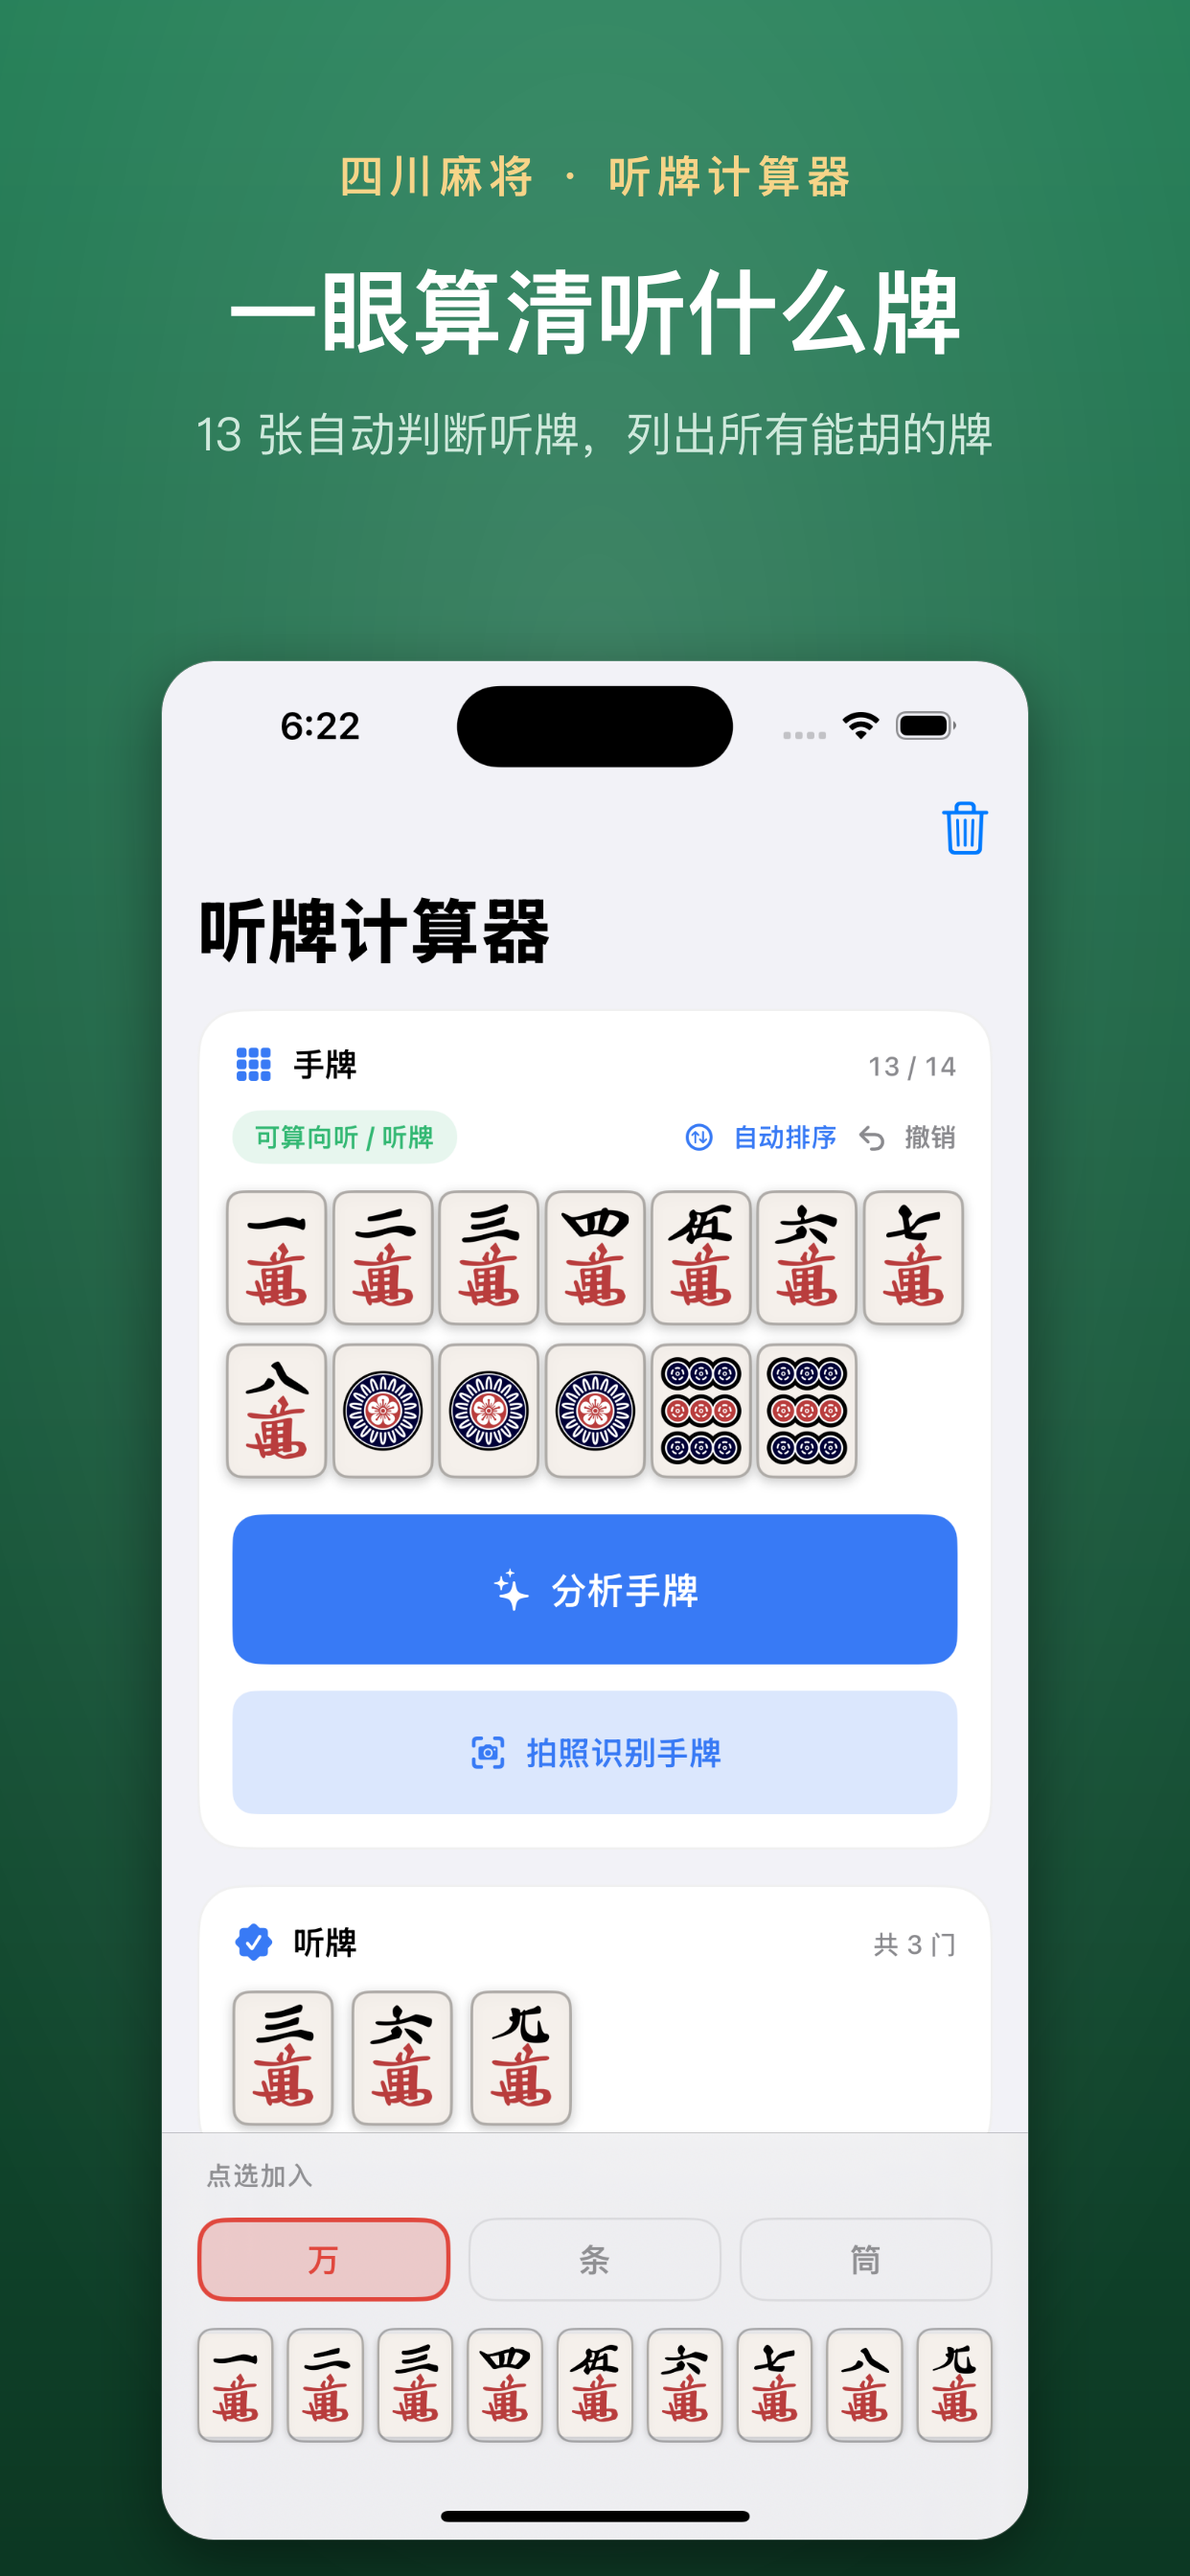
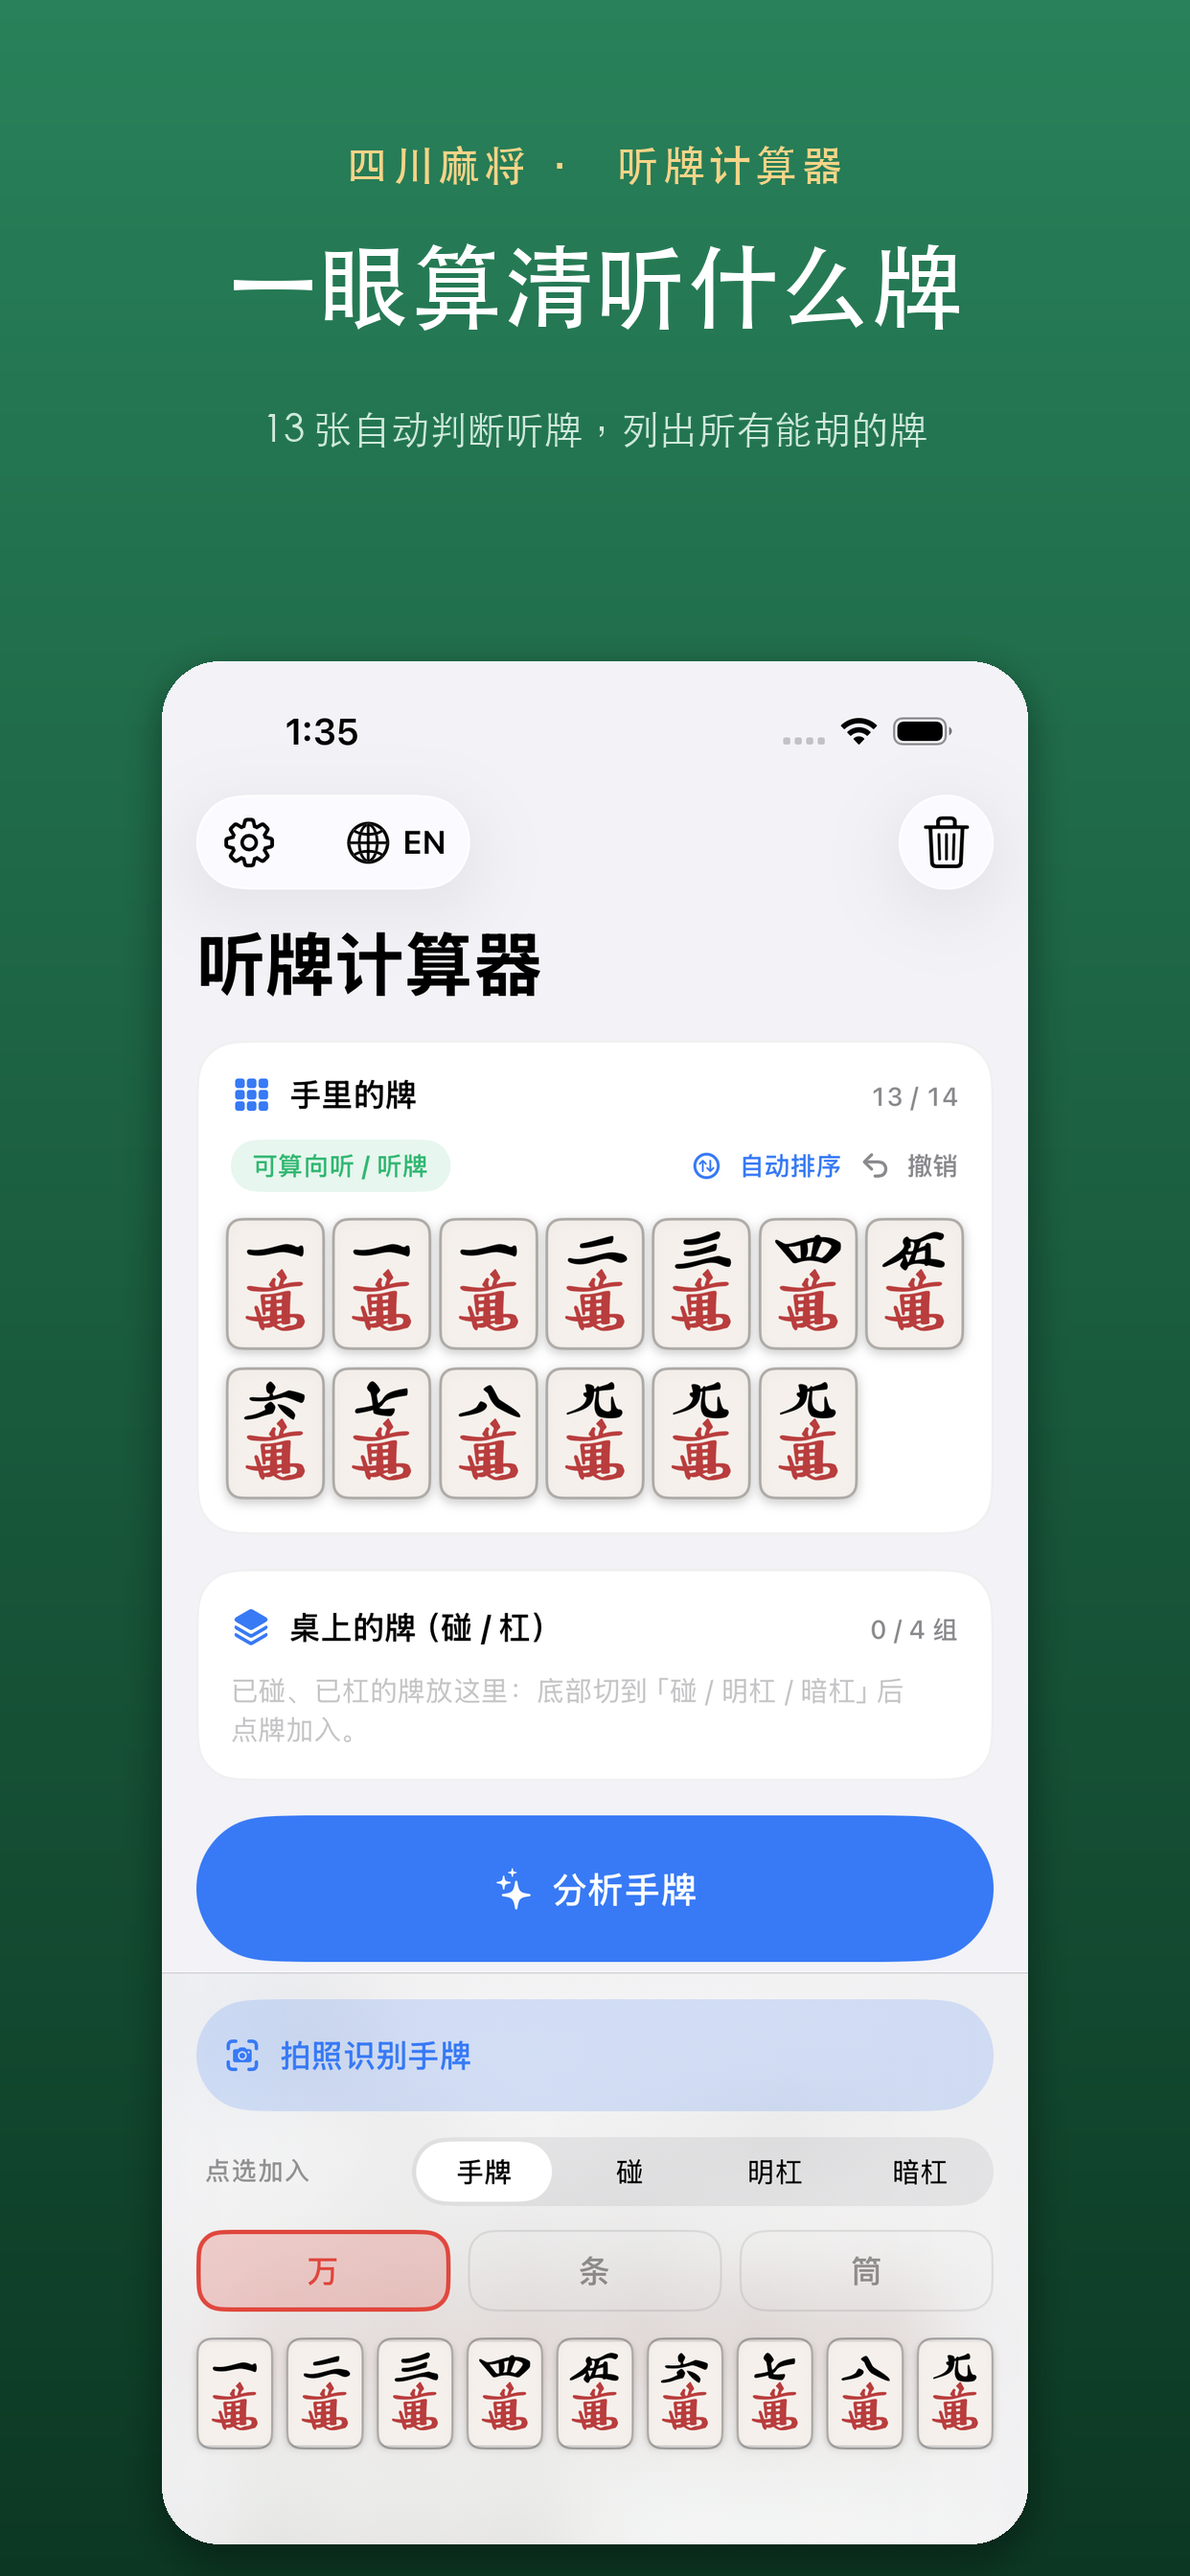
Refresh App Store screenshots for the current UI, add 算番 promo image
The 4 existing promo screenshots were captured before melds, rule
settings, and fan/payout scoring existed — the app looked nothing
like them anymore. Recaptured all 4 from the current build and added
a 5th dedicated to the fan-scoring feature (番型明细 sheet showing
清豪七 with 点炮/自摸 payouts).

- ContentView: add a DEBUG-only DEMO_NOSCROLL env hook (alongside the
  existing DEMO_HAND/DEMO_SHEET/etc.) so promo screenshots can be
  captured at the top of the page instead of mid-auto-scroll.
- screenshots/compose_promo.py: new reusable compositor (gradient
  background + caption/headline/subtitle + rounded corners + shadow)
  that regenerates 6.5-inch/*.png from raw/*.png, replacing the
  previously undocumented ad-hoc process.
- Updated app store README/Listing to reflect the 5-screenshot set
  and the new regeneration script.

diff --git a/majiang calculator/ContentView.swift b/majiang calculator/ContentView.swift
@@ -350,6 +350,9 @@ struct ContentView: View {
 
     /// 分析结束后把结果区滚进视野（等布局稳定后再滚）
     private func scrollToResult(_ proxy: ScrollViewProxy) {
+        #if DEBUG
+        if ProcessInfo.processInfo.environment["DEMO_NOSCROLL"] == "1" { return }
+        #endif
         DispatchQueue.main.asyncAfter(deadline: .now() + 0.25) {
             withAnimation(.easeInOut(duration: 0.35)) {
                 proxy.scrollTo("result", anchor: .top)

diff --git a/app store/screenshots/compose_promo.py b/app store/screenshots/compose_promo.py
@@ -1,0 +1,174 @@
+#!/usr/bin/env python3
+"""
+Regenerate the App Store 6.5" promo screenshots from raw simulator captures.
+
+Usage: capture fresh raw screenshots into raw/<name>.png (see repo memory
+`ai-tile-recognition`/README for the SIMCTL_CHILD_DEMO_* env hooks that
+reproduce each demo state), then from this directory run:
+
+    python3 compose_promo.py
+
+Composites each raw/<name>.png onto a gradient background with caption +
+headline + subtitle text, rounded corners, and a soft drop shadow, writing
+6.5-inch/<name>.png. Style (colors, type sizes, phone placement) was reverse
+-measured from the original hand-made screenshots, so re-running this after
+editing SCREENS below should stay visually consistent.
+"""
+import os
+from PIL import Image, ImageDraw, ImageFont, ImageFilter
+
+HERE = os.path.dirname(os.path.abspath(__file__))
+RAW_DIR = os.path.join(HERE, "raw")
+OUT_DIR = os.path.join(HERE, "6.5-inch")
+
+CANVAS_W, CANVAS_H = 1242, 2688
+TOP_COLOR = (40, 129, 90)
+BOTTOM_COLOR = (12, 56, 35)
+GOLD = (246, 212, 136)
+WHITE = (255, 255, 255)
+MINT = (207, 233, 220)
+
+FONT_MED = "/System/Library/Fonts/STHeiti Medium.ttc"
+FONT_LIGHT = "/System/Library/Fonts/STHeiti Light.ttc"
+
+PHONE_W = 904
+PHONE_TOP = 690
+PHONE_LEFT = (CANVAS_W - PHONE_W) // 2
+CORNER_RADIUS = 60
+
+
+def make_gradient():
+    im = Image.new("RGB", (CANVAS_W, CANVAS_H))
+    px = im.load()
+    for y in range(CANVAS_H):
+        t = y / (CANVAS_H - 1)
+        r = round(TOP_COLOR[0] + (BOTTOM_COLOR[0] - TOP_COLOR[0]) * t)
+        g = round(TOP_COLOR[1] + (BOTTOM_COLOR[1] - TOP_COLOR[1]) * t)
+        b = round(TOP_COLOR[2] + (BOTTOM_COLOR[2] - TOP_COLOR[2]) * t)
+        for x in range(CANVAS_W):
+            px[x, y] = (r, g, b)
+    return im
+
+
+def draw_tracked_text(draw, y, text, font, fill, tracking, center_x):
+    widths = []
+    for ch in text:
+        bbox = font.getbbox(ch)
+        widths.append(bbox[2] - bbox[0] if ch != " " else font.getbbox("一")[2] * 0.4)
+    total = sum(widths) + tracking * (len(text) - 1)
+    x = center_x - total / 2
+    for ch, w in zip(text, widths):
+        draw.text((x, y), ch, font=font, fill=fill)
+        x += w + tracking
+
+
+def fit_headline_font(text, max_width, start_size=96, min_size=56):
+    size = start_size
+    while size > min_size:
+        f = ImageFont.truetype(FONT_MED, size)
+        bbox = f.getbbox(text)
+        if (bbox[2] - bbox[0]) <= max_width:
+            return f
+        size -= 2
+    return ImageFont.truetype(FONT_MED, min_size)
+
+
+def rounded_mask(size, radius):
+    mask = Image.new("L", size, 0)
+    ImageDraw.Draw(mask).rounded_rectangle([0, 0, size[0] - 1, size[1] - 1], radius=radius, fill=255)
+    return mask
+
+
+def compose(raw_path, out_path, caption, headline, subtitle, crop_top=0, crop_bottom=0):
+    bg = make_gradient()
+    draw = ImageDraw.Draw(bg)
+    cx = CANVAS_W // 2
+
+    draw_tracked_text(draw, 150, caption, ImageFont.truetype(FONT_MED, 44), GOLD, tracking=4, center_x=cx)
+
+    headline_font = fit_headline_font(headline, CANVAS_W - 120)
+    hbbox = headline_font.getbbox(headline)
+    draw.text((cx - (hbbox[2] - hbbox[0]) / 2 - hbbox[0], 250), headline, font=headline_font, fill=WHITE)
+
+    sub_font = ImageFont.truetype(FONT_LIGHT, 40)
+    sbbox = sub_font.getbbox(subtitle)
+    draw.text((cx - (sbbox[2] - sbbox[0]) / 2 - sbbox[0], 428), subtitle, font=sub_font, fill=MINT)
+
+    shot = Image.open(raw_path).convert("RGB")
+    w, h = shot.size
+    if crop_top or crop_bottom:
+        shot = shot.crop((0, crop_top, w, h - crop_bottom))
+        w, h = shot.size
+    new_h = round(h * (PHONE_W / w))
+    shot = shot.resize((PHONE_W, new_h), Image.LANCZOS)
+
+    avail_h = CANVAS_H - PHONE_TOP - 24
+    if new_h > avail_h:
+        shot = shot.crop((0, 0, PHONE_W, avail_h))
+        new_h = avail_h
+
+    shadow = Image.new("RGBA", bg.size, (0, 0, 0, 0))
+    ImageDraw.Draw(shadow).rounded_rectangle(
+        [PHONE_LEFT - 4, PHONE_TOP + 10, PHONE_LEFT + PHONE_W + 4, PHONE_TOP + new_h + 18],
+        radius=CORNER_RADIUS + 4, fill=(0, 0, 0, 90),
+    )
+    shadow = shadow.filter(ImageFilter.GaussianBlur(18))
+    bg = Image.alpha_composite(bg.convert("RGBA"), shadow).convert("RGB")
+
+    bg.paste(shot, (PHONE_LEFT, PHONE_TOP), rounded_mask((PHONE_W, new_h), CORNER_RADIUS))
+    bg.save(out_path)
+    print("wrote", out_path, bg.size)
+
+
+# Raw capture recipe for each screen (SIMCTL_CHILD_ env vars on `simctl launch`):
+#   1_tenpai   DEMO_HAND=1112345678999m DEMO_NOSCROLL=1        (nine-gates shape, tenpai on all 9 tiles)
+#   2_discard  DEMO_HAND=12345678m123456p                      (14 tiles, auto-scrolls to 打牌建议)
+#   3_shanten  DEMO_HAND=1245678m123567p                       (13 tiles, 1-shanten, auto-scrolls to result)
+#   4_input    DEMO_HAND=345s123p DEMO_ANALYZE=0                (partial hand, stays unanalyzed)
+#   5_scoring  DEMO_HAND=1111223344556m DEMO_SHEET=6m           (清豪七 tenpai, pops fan-breakdown sheet)
+# DEMO_NOSCROLL=1 is a scratch-only env var (see ContentView.scrollToResult) — keep it if still present,
+# it just skips the auto-scroll-to-result animation so the top-of-page framing is captured cleanly.
+SCREENS = [
+    dict(
+        raw="1_tenpai.png",
+        caption="四川麻将 · 听牌计算器",
+        headline="一眼算清听什么牌",
+        subtitle="13 张自动判断听牌，列出所有能胡的牌",
+    ),
+    dict(
+        raw="2_discard.png",
+        caption="四川麻将 · 听牌计算器",
+        headline="该打哪张？秒出最优解",
+        subtitle="14 张逐一比较，给出向听数与进张建议",
+        crop_top=140,
+    ),
+    dict(
+        raw="3_shanten.png",
+        caption="四川麻将 · 听牌计算器",
+        headline="向听 · 进张 一目了然",
+        subtitle="离听牌还差几张，摸什么牌最有用",
+        crop_top=140,
+    ),
+    dict(
+        raw="4_input.png",
+        caption="四川麻将 · 听牌计算器",
+        headline="真实牌面，上手就会",
+        subtitle="点选或拍照识别，万 · 筒 · 条 一眼分辨",
+    ),
+    dict(
+        raw="5_scoring.png",
+        caption="四川麻将 · 听牌计算器",
+        headline="算番算钱，一步到位",
+        subtitle="点开任意听牌，看番型明细与点炮/自摸金额",
+        crop_top=140,
+    ),
+]
+
+if __name__ == "__main__":
+    os.makedirs(OUT_DIR, exist_ok=True)
+    for s in SCREENS:
+        compose(
+            os.path.join(RAW_DIR, s["raw"]), os.path.join(OUT_DIR, s["raw"]),
+            s["caption"], s["headline"], s["subtitle"],
+            crop_top=s.get("crop_top", 0), crop_bottom=s.get("crop_bottom", 0),
+        )

diff --git a/app store/README.md b/app store/README.md
@@ -10,12 +10,14 @@ app store/
 ├── App Store Listing.md      ← 所有要填进 App Store Connect 的文案（可直接复制粘贴，中英双语）
 ├── Privacy Policy.md         ← 隐私政策正文（托管成网页后填链接，中英双语）
 └── screenshots/
-    ├── 6.5-inch/             ← 4 张 1242×2688 成品宣传图（直接上传 6.5" 槽位）
+    ├── 6.5-inch/             ← 5 张 1242×2688 成品宣传图（直接上传 6.5" 槽位）
     │   ├── 1_tenpai.png      ← 听牌
     │   ├── 2_discard.png     ← 打牌建议
     │   ├── 3_shanten.png     ← 向听 + 进张
-    │   └── 4_input.png       ← 真实牌面 / 输入
-    └── raw/                  ← 不带文案的纯界面原图（备用 / 二次设计）
+    │   ├── 4_input.png       ← 真实牌面 / 输入
+    │   └── 5_scoring.png     ← 算番（番型明细 + 点炮/自摸金额）
+    ├── raw/                  ← 不带文案的纯界面原图（每张对应 compose_promo.py 里的一条 SCREENS 配方）
+    └── compose_promo.py      ← 重新套图脚本：raw/*.png → 6.5-inch/*.png（渐变背景+文案+圆角），见脚本内注释
 ```
 
 ## 上架步骤（概览）
@@ -23,7 +25,7 @@ app store/
 1. 在 [App Store Connect](https://appstoreconnect.apple.com) → My Apps → ➕ 新建 App
    - 平台 iOS，主语言 简体中文，Bundle ID `ACM.majiang-calculator`，SKU 自取。
 2. 按 `App Store Listing.md` 的分区，逐项把文案粘贴进去。
-3. 上传 `screenshots/6.5-inch/` 的 4 张图到 6.5" 截图槽位。
+3. 上传 `screenshots/6.5-inch/` 的 5 张图到 6.5" 截图槽位。
 4. 把 `Privacy Policy.md` 托管成网页，链接填到「隐私政策网址」。
 5. 在 Xcode 里 Archive 并上传构建（版本 1.0 / build 1）。
 6. 选中构建、填好年龄分级与 App 隐私问卷（答案见 Listing 文档），提交审核。
@@ -48,6 +50,6 @@ app store/
 ## 截图尺寸补充
 
 - 已提供 **6.5"（1242×2688）**。当前 App Store Connect 通常只强制要求 6.5"（或 6.7"/6.9"）其中一档；6.5" 这一套即可覆盖提交所需。
-- 如果你想额外提供 **6.7"/6.9"（1290×2796）** 专属图，可用同样的方式重出：
-  原始界面图在 `screenshots/raw/`，套图脚本逻辑见项目记忆 `tile-artwork` 同类流程（背景渐变 + 文案 + 圆角截图，rsvg-convert 渲染）。
+- 重新出图（改文案 / UI 变了要换新截图）：先用 Xcode 模拟器 + `SIMCTL_CHILD_DEMO_HAND`/`DEMO_MELDS`/`DEMO_SHEET`/`DEMO_ANALYZE`/`DEMO_NOSCROLL` 等 env hook（见 `MahjongViewModel.swift`/`ContentView.swift` 里的 `#if DEBUG` 块）截出新的 `raw/*.png`，改 `compose_promo.py` 里 `SCREENS` 对应条目的文案/raw 文件名，再 `python3 compose_promo.py` 重新生成 `6.5-inch/*.png`。
+- 如果你想额外提供 **6.7"/6.9"（1290×2796）** 专属图，把 `compose_promo.py` 顶部 `CANVAS_W, CANVAS_H` 和 `PHONE_W` 改成对应尺寸重跑即可，版式逻辑不用改。
 - iPad：当前 App 仅 iPhone（不需要 iPad 截图）。

diff --git a/app store/App Store Listing.md b/app store/App Store Listing.md
@@ -209,10 +209,9 @@ https://<你的隐私政策页面>
 
 ## 9. 截图（Screenshots）
 
-- `screenshots/6.5-inch/` 内的 4 张为 **1242 × 2688**（6.5" 显示屏）成品图，可直接上传到 6.5" 槽位。
+- `screenshots/6.5-inch/` 内的 5 张为 **1242 × 2688**（6.5" 显示屏）成品图，可直接上传到 6.5" 槽位：听牌、打牌建议、向听、真实牌面、算番（番型明细 + 点炮/自摸金额）。
   - 6.5" 槽位同样接受这些图用于覆盖到更大尺寸；如需 6.7"/6.9" 专属图可另出（见 README）。
-- `screenshots/raw/` 为不带文案的纯界面原图，留作备用 / 二次设计。
-- ⚠ 现有 4 张图（听牌 / 打牌建议 / 向听 / 输入）是早期界面，**没有展示番数与金额、规则设置、碰杠录入、中英切换**这几项后加的卖点。文案已按新功能更新，建议重新出 1～2 张图展示「番数+金额」和「规则设置」再提交，效果会更完整。
+- `screenshots/raw/` 为不带文案的纯界面原图，`compose_promo.py` 是重新套图的脚本，留作备用 / 二次设计。
 
 App Store 6.5" 截图要求：1242×2688 或 1284×2778，竖屏，PNG/JPG，最多 10 张。本套已满足。
 
